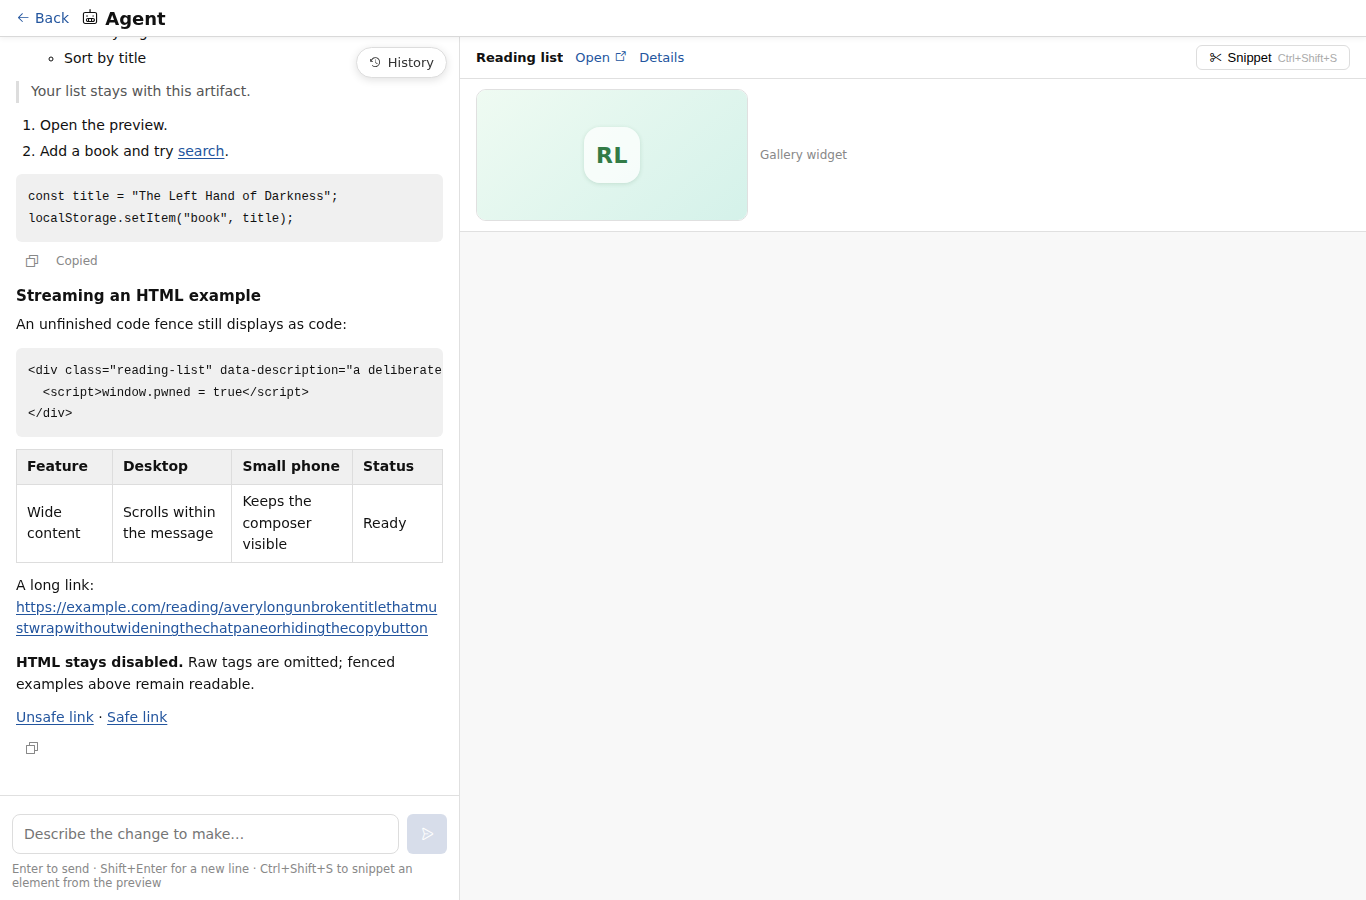
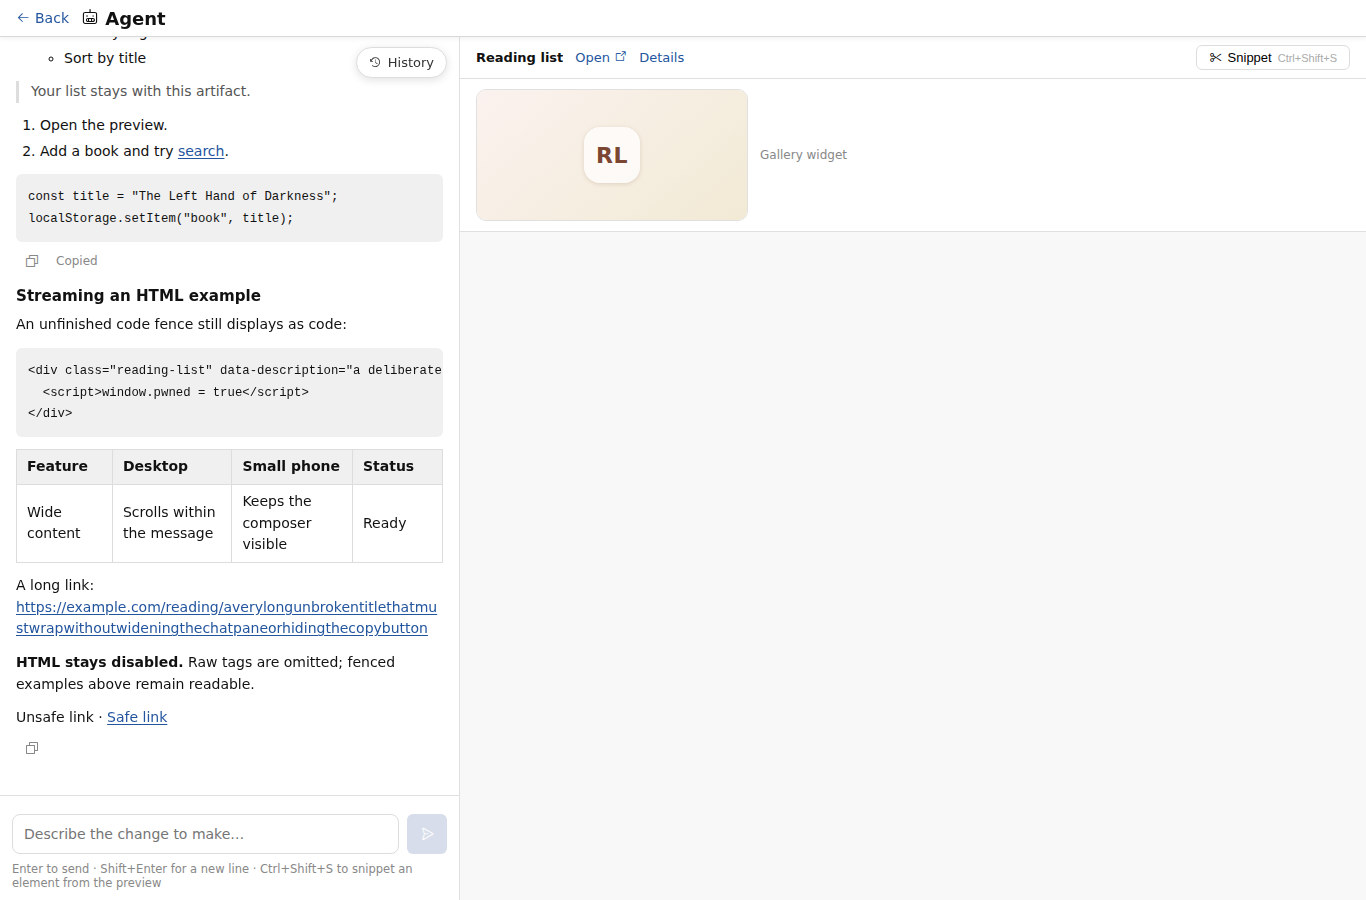
fix: coalesce streamed Markdown and keep blocked links inert

Changed region(s): [[0.4612, 0.1244, 0.5534, 0.2489], [0.0, 0.7778, 0.0615, 0.8089], [0.4305, 0.1556, 0.4612, 0.1867]]

diff --git a/web/gallery/agent.js b/web/gallery/agent.js
@@ -385,6 +385,19 @@ let toolChips = {};          // toolCallId -> chip element
 
 function handleAgentEvent(ev) {
   document.dispatchEvent(new CustomEvent('exhibit:agent-event', {detail: {event: ev, sessionId}}));
+  if (typeof ev.exhibitMessageHTML === 'string' || typeof ev.exhibitMessageText === 'string') {
+    removeThinking();
+    if (!curAssistantEl) curAssistantEl = addMsg('assistant', '');
+    // Only server-rendered partials cross this boundary. Model text is never
+    // inserted as HTML; oversized or malformed events stay plain text.
+    if (typeof ev.exhibitMessageHTML === 'string') {
+      window.htmx.swap({ sourceElement: curAssistantEl, target: curAssistantEl,
+        text: ev.exhibitMessageHTML, swap: 'innerHTML settle:0' });
+    } else {
+      curAssistantEl.textContent = ev.exhibitMessageText;
+    }
+    messagesEl.scrollTop = messagesEl.scrollHeight;
+  }
   switch (ev.type) {
     case 'exhibit_questions':
       if (ev.pending) pendingQuestions.add(ev.requestId);
@@ -413,16 +426,11 @@ function handleAgentEvent(ev) {
       break;
     case 'message_update': {
       const d = ev.assistantMessageEvent;
-      if (!d) break;
+      if (!d || ev.exhibitMessagePending) break;
       if (d.type === 'text_delta' || (d.type === 'text_end' && (curAssistantEl || typeof ev.exhibitMessageHTML === 'string'))) {
         removeThinking();
         if (!curAssistantEl) curAssistantEl = addMsg('assistant', '');
-        if (typeof ev.exhibitMessageHTML === 'string') {
-          // Only server-rendered partials cross this boundary. Model text is
-          // never inserted as HTML; older/malformed events stay plain text.
-          window.htmx.swap({ sourceElement: curAssistantEl, target: curAssistantEl,
-            text: ev.exhibitMessageHTML, swap: 'innerHTML settle:0' });
-        } else {
+        if (typeof ev.exhibitMessageHTML !== 'string' && typeof ev.exhibitMessageText !== 'string') {
           const source = curAssistantEl.querySelector('[data-message-source]')?.dataset.messageSource ?? curAssistantEl.textContent;
           if (d.type === 'text_delta') curAssistantEl.textContent = source + d.delta;
           else if (typeof d.content === 'string') curAssistantEl.textContent = d.content;

diff --git a/internal/api/agentmarkdown.go b/internal/api/agentmarkdown.go
@@ -4,15 +4,45 @@ import (
 	"bytes"
 	"encoding/json"
 	"html/template"
+	"io"
 	"strings"
+	"time"
 
+	"github.com/yuin/goldmark/v2/ast"
 	"github.com/yuin/goldmark/v2/extension"
 	"github.com/yuin/goldmark/v2/parser"
+	"github.com/yuin/goldmark/v2/renderer"
 	"github.com/yuin/goldmark/v2/renderer/html"
 )
 
 var agentMarkdownParser = parser.New(parser.WithExtensions(extension.GFMParser))
-var agentMarkdownRenderer = html.New(html.WithExtensions(extension.GFMHTMLRenderer))
+var agentMarkdownRenderer = html.New(
+	html.WithExtensions(extension.GFMHTMLRenderer),
+	html.WithNodeRendererDecorator(ast.KindLink, inertUnsafeLinks),
+	html.WithNodeRendererDecorator(ast.KindAutoLink, inertUnsafeLinks),
+)
+
+// Goldmark normally gives blocked links an empty href, which reloads the chat
+// when clicked. Reuse its URL classification, rendering just the label instead.
+func inertUnsafeLinks(next html.NodeRenderer) html.NodeRenderer {
+	return html.NodeRendererFunc(func(w io.Writer, source []byte, node ast.Node, entering bool, ctx renderer.Context) (ast.WalkStatus, error) {
+		switch link := node.(type) {
+		case *ast.Link:
+			if html.IsDangerousURL(link.Destination.Value(source)) {
+				return ast.WalkContinue, nil
+			}
+		case *ast.AutoLink:
+			if html.IsDangerousURL(link.Destination.Value(source)) {
+				if entering {
+					_, err := link.Label.WriteTo(html.ContextTextWriter(ctx), source)
+					return ast.WalkContinue, err
+				}
+				return ast.WalkContinue, nil
+			}
+		}
+		return next.Render(w, source, node, entering, ctx)
+	})
+}
 
 // agentMarkdown is the only trusted-HTML boundary for conversation text. Keep
 // Goldmark's safe defaults: raw HTML is omitted and dangerous URLs are blocked.
@@ -29,11 +59,14 @@ func agentMarkdown(source string) (template.HTML, error) {
 // Keep per-connection reconstruction bounded even if a provider never ends a
 // text block. Oversized blocks use the browser's escaped plain-text fallback.
 const maxAgentMarkdownBytes = 1 << 20
+const agentMarkdownInterval = 100 * time.Millisecond
 
 type agentMarkdownStream struct {
 	text         strings.Builder
 	contentIndex int
 	oversized    bool
+	rendered     bool
+	dirty        bool
 }
 
 // renderEvent decorates Pi's delta-only wire events with the same partial used
@@ -52,18 +85,22 @@ func (stream *agentMarkdownStream) renderEvent(line []byte) []byte {
 	if json.Unmarshal(line, &event) != nil {
 		return line
 	}
-	if event.Type == "message_start" || event.Type == "agent_settled" {
-		stream.text.Reset()
-		stream.oversized = false
+	if event.Type == "agent_end" || event.Type == "agent_settled" || event.Type == "exhibit_session_closed" {
+		if stream.dirty {
+			line = stream.renderSnapshot(line)
+		}
+		*stream = agentMarkdownStream{}
+		return line
+	}
+	if event.Type == "message_start" {
+		*stream = agentMarkdownStream{}
 	}
 	if event.Type != "message_update" {
 		return line
 	}
 	update := event.Update
 	if update.Type == "text_start" || update.ContentIndex != stream.contentIndex {
-		stream.text.Reset()
-		stream.oversized = false
-		stream.contentIndex = update.ContentIndex
+		*stream = agentMarkdownStream{contentIndex: update.ContentIndex}
 	}
 	var source string
 	switch update.Type {
@@ -72,29 +109,58 @@ func (stream *agentMarkdownStream) renderEvent(line []byte) []byte {
 			return line
 		}
 		if stream.text.Len()+len(update.Delta) > maxAgentMarkdownBytes {
+			source := stream.text.String() + update.Delta
 			stream.text.Reset()
 			stream.oversized = true
-			return line
+			stream.dirty = false
+			return decorateAgentEvent(line, "exhibitMessageText", source)
 		}
 		stream.text.WriteString(update.Delta)
-		source = stream.text.String()
+		stream.dirty = true
+		if stream.rendered {
+			return decorateAgentEvent(line, "exhibitMessagePending", true)
+		}
+		return stream.renderSnapshot(line)
 	case "text_end":
 		source = update.Content
-		stream.text.Reset()
-		stream.oversized = false
+		*stream = agentMarkdownStream{}
 		if len(source) > maxAgentMarkdownBytes {
 			return line
 		}
 	default:
 		return line
 	}
+	return renderAgentEvent(line, source)
+}
+
+// flush emits at most one snapshot per interval even during rapid token bursts
+// or replay. Raw Pi events still reach API consumers unchanged apart from the
+// pending marker. Completion and interruption always flush immediately.
+func (stream *agentMarkdownStream) flush() []byte {
+	if !stream.dirty {
+		return nil
+	}
+	return stream.renderSnapshot([]byte(`{"type":"exhibit_message"}`))
+}
+
+func (stream *agentMarkdownStream) renderSnapshot(line []byte) []byte {
+	stream.rendered = true
+	stream.dirty = false
+	return renderAgentEvent(line, stream.text.String())
+}
+
+func renderAgentEvent(line []byte, source string) []byte {
 	fragment, err := renderPage("agentMessageBody", source)
 	if err != nil {
 		return line
 	}
+	return decorateAgentEvent(line, "exhibitMessageHTML", fragment)
+}
+
+func decorateAgentEvent(line []byte, key string, value any) []byte {
 	var fields map[string]json.RawMessage
 	_ = json.Unmarshal(line, &fields)
-	fields["exhibitMessageHTML"], _ = json.Marshal(fragment)
+	fields[key], _ = json.Marshal(value)
 	rendered, _ := json.Marshal(fields)
 	return rendered
 }

diff --git a/internal/api/agentmarkdown_test.go b/internal/api/agentmarkdown_test.go
@@ -91,7 +91,11 @@ func TestAgentMarkdownStream(t *testing.T) {
 		var event struct {
 			HTML string `json:"exhibitMessageHTML"`
 		}
-		require.NoError(t, json.Unmarshal(stream.renderEvent(line), &event))
+		rendered := stream.renderEvent(line)
+		if flush := stream.flush(); flush != nil {
+			rendered = flush
+		}
+		require.NoError(t, json.Unmarshal(rendered, &event))
 		return event.HTML
 	}
 	assert.Contains(t, fragment(markdownWireEvent("text_delta", "**bo", 1)), "<p>**bo</p>")
@@ -127,4 +131,58 @@ func TestAgentMarkdownConcurrentRendering(t *testing.T) {
 		})
 	}
 	wg.Wait()
+}
+
+func TestAgentMarkdownUnsafeLinksArePlainLabels(t *testing.T) {
+	for _, source := range []string{
+		"[**Unsafe label**](javascript:alert%281%29)",
+		"[Unsafe label](javascript&colon;alert%281%29)",
+		"[Unsafe label](java&#x73;cript:alert%281%29)",
+		"<javascript:alert(1)>",
+		"<data:text/html,hello>",
+	} {
+		rendered, err := agentMarkdown(source)
+		require.NoError(t, err)
+		assert.NotContains(t, string(rendered), "<a")
+		assert.NotEmpty(t, string(rendered))
+	}
+}
+
+func TestAgentMarkdownCoalescesLongRepliesAndFlushesInterruption(t *testing.T) {
+	var stream agentMarkdownStream
+	var wireBytes, snapshots int
+	var source strings.Builder
+	for i := 0; i < 4096; i++ {
+		delta := "0123456789abcdef"
+		source.WriteString(delta)
+		rendered := stream.renderEvent(markdownWireEvent("text_delta", delta, 0))
+		wireBytes += len(rendered)
+		var event map[string]any
+		require.NoError(t, json.Unmarshal(rendered, &event))
+		assert.Equal(t, delta, event["assistantMessageEvent"].(map[string]any)["delta"])
+		if _, ok := event["exhibitMessageHTML"]; ok {
+			snapshots++
+		}
+		// Model a stream with 256 tiny deltas between coalescing ticks.
+		if (i+1)%256 == 0 {
+			flushed := stream.flush()
+			require.NotNil(t, flushed)
+			wireBytes += len(flushed)
+			snapshots++
+		}
+	}
+	assert.Equal(t, 17, snapshots)
+	assert.Less(t, wireBytes, 3<<20, "a 64 KiB reply must not amplify into hundreds of MiB")
+	assert.Nil(t, stream.flush())
+	var final struct {
+		HTML string `json:"exhibitMessageHTML"`
+	}
+	require.NoError(t, json.Unmarshal(stream.renderEvent(markdownWireEvent("text_end", source.String(), 0)), &final))
+	assert.Contains(t, final.HTML, "<p>"+source.String()+"</p>")
+	assert.Nil(t, stream.flush())
+	stream.renderEvent(markdownWireEvent("text_delta", "**partial", 0))
+	stream.renderEvent(markdownWireEvent("text_delta", " on stop**", 0))
+	require.NoError(t, json.Unmarshal(stream.renderEvent([]byte(`{"type":"agent_settled"}`)), &final))
+	assert.Contains(t, final.HTML, "<strong>partial on stop</strong>")
+	assert.Nil(t, stream.flush())
 }

diff --git a/internal/api/agentmarkdown_browser_test.go b/internal/api/agentmarkdown_browser_test.go
@@ -58,11 +58,18 @@ func markdownBrowserFixture(t *testing.T) (http.Handler, string, chan []byte) {
 		w.WriteHeader(http.StatusOK)
 		w.(http.Flusher).Flush()
 		var markdown agentMarkdownStream
+		ticker := time.NewTicker(agentMarkdownInterval)
+		defer ticker.Stop()
 		for {
 			select {
 			case line := <-events:
 				fmt.Fprintf(w, "data: %s\n\n", markdown.renderEvent(line))
 				w.(http.Flusher).Flush()
+			case <-ticker.C:
+				if line := markdown.flush(); line != nil {
+					fmt.Fprintf(w, "data: %s\n\n", line)
+					w.(http.Flusher).Flush()
+				}
 			case <-r.Context().Done():
 				return
 			}
@@ -140,7 +147,9 @@ func TestAgentMarkdownBrowser(t *testing.T) {
 	run(chromedp.Poll[chromedp.Void](`document.querySelector('#messages table') != null`),
 		chromedp.Evaluate[chromedp.Void](`document.querySelector('#messages .agent-message:last-child').scrollIntoView({block:'start'})`))
 	check(`!window.pwned && document.querySelectorAll('#messages script, #messages iframe, #messages style, #messages [hx-get], #messages img').length === 0`)
-	check(`Array.from(document.querySelectorAll('#messages a')).every(a => !a.getAttribute('href').toLowerCase().startsWith('javascript:'))`)
+	check(`!Array.from(document.querySelectorAll('#messages a')).some(a => a.textContent === 'Unsafe link')`)
+	run(chromedp.Evaluate[chromedp.Void](`window.pageMarker = 'still here'; Array.from(document.querySelectorAll('#messages p')).find(p => p.textContent.includes('Unsafe link')).click()`))
+	check(`window.pageMarker === 'still here' && document.querySelector('#messages table') != null`)
 	check(`document.documentElement.scrollWidth <= innerWidth && document.querySelector('#messages').scrollWidth <= document.querySelector('#messages').clientWidth`)
 	check(`document.querySelector('#messages table').scrollWidth > document.querySelector('#messages table').clientWidth`)
 	capture("04-mobile-edge-cases.png")

diff --git a/internal/api/agent.go b/internal/api/agent.go
@@ -542,6 +542,8 @@ func (ro *Router) agentEvents(w http.ResponseWriter, r *http.Request) {
 	heartbeat := time.NewTicker(15 * time.Second)
 	defer heartbeat.Stop()
 	var markdown agentMarkdownStream
+	markdownTicker := time.NewTicker(agentMarkdownInterval)
+	defer markdownTicker.Stop()
 
 	for {
 		select {
@@ -551,6 +553,11 @@ func (ro *Router) agentEvents(w http.ResponseWriter, r *http.Request) {
 			}
 			fmt.Fprintf(w, "data: %s\n\n", markdown.renderEvent(ev))
 			flusher.Flush()
+		case <-markdownTicker.C:
+			if ev := markdown.flush(); ev != nil {
+				fmt.Fprintf(w, "data: %s\n\n", ev)
+				flusher.Flush()
+			}
 		case <-heartbeat.C:
 			fmt.Fprint(w, ": ping\n\n")
 			flusher.Flush()

diff --git a/docs/agent.md b/docs/agent.md
@@ -39,16 +39,17 @@ a network footprint awaiting approval.
 
 Assistant replies render CommonMark and GitHub Flavored Markdown using
 [Goldmark](https://github.com/yuin/goldmark), pinned in `go.mod`. Its safe renderer
-omits raw HTML and blocks dangerous link destinations; HTML attributes and
-heading IDs are not enabled. Fenced HTML remains escaped code. Person messages
+omits raw HTML; dangerous Markdown links render as plain labels. HTML attributes
+and heading IDs are not enabled. Fenced HTML remains escaped code. Person messages
 stay plain text in blue bubbles; assistant replies and status messages have no
 message box. Code blocks and tables scroll inside the pane on narrow screens.
 
 `internal/api/agentmarkdown.go` and the `agentMessageBody` template partial own
 rendering for both history and live SSE. Each SSE connection reconstructs Pi's
 text deltas; `text_end.content` replaces the reconstruction with authoritative
-text. htmx swaps the partial into the existing message content slot, preserving
-its action buttons. Reconstruction is capped at 1 MiB per text block; larger
+text. Snapshots are coalesced to at most ten per second during streaming, with
+immediate renders at text-block completion or interruption. htmx swaps the
+partial into the existing message content slot, preserving its action buttons. Reconstruction is capped at 1 MiB per text block; larger
 live blocks fall back to escaped plain text. Copy uses the preserved Markdown
 source, including after history is continued, rather than concatenated DOM text.
 
